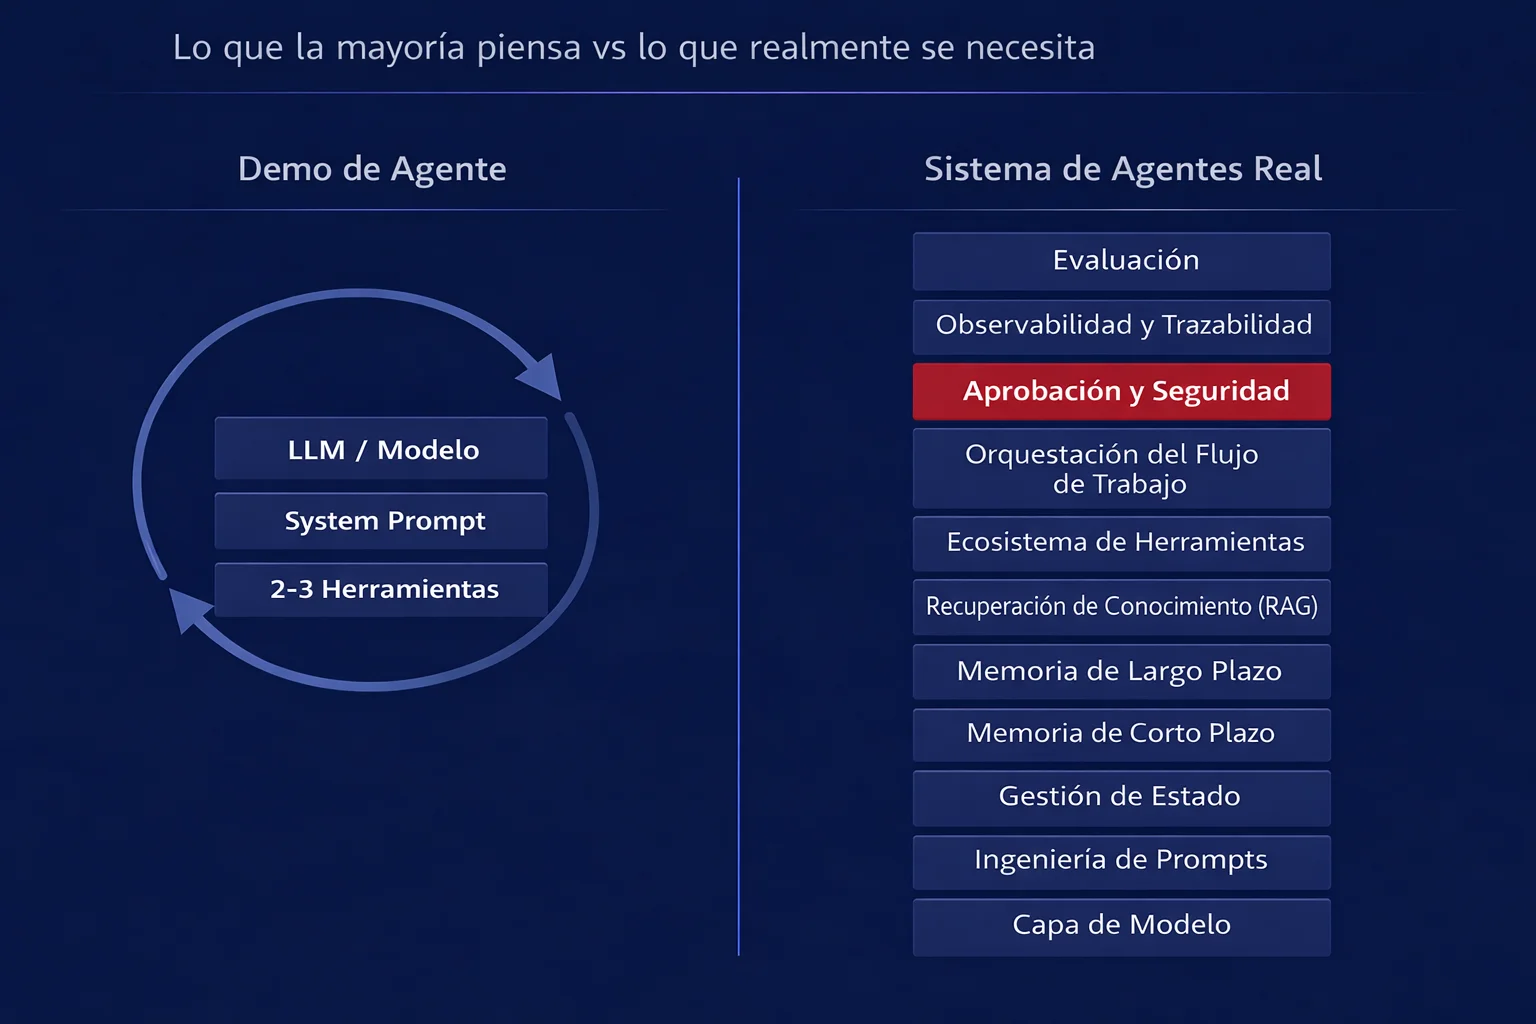
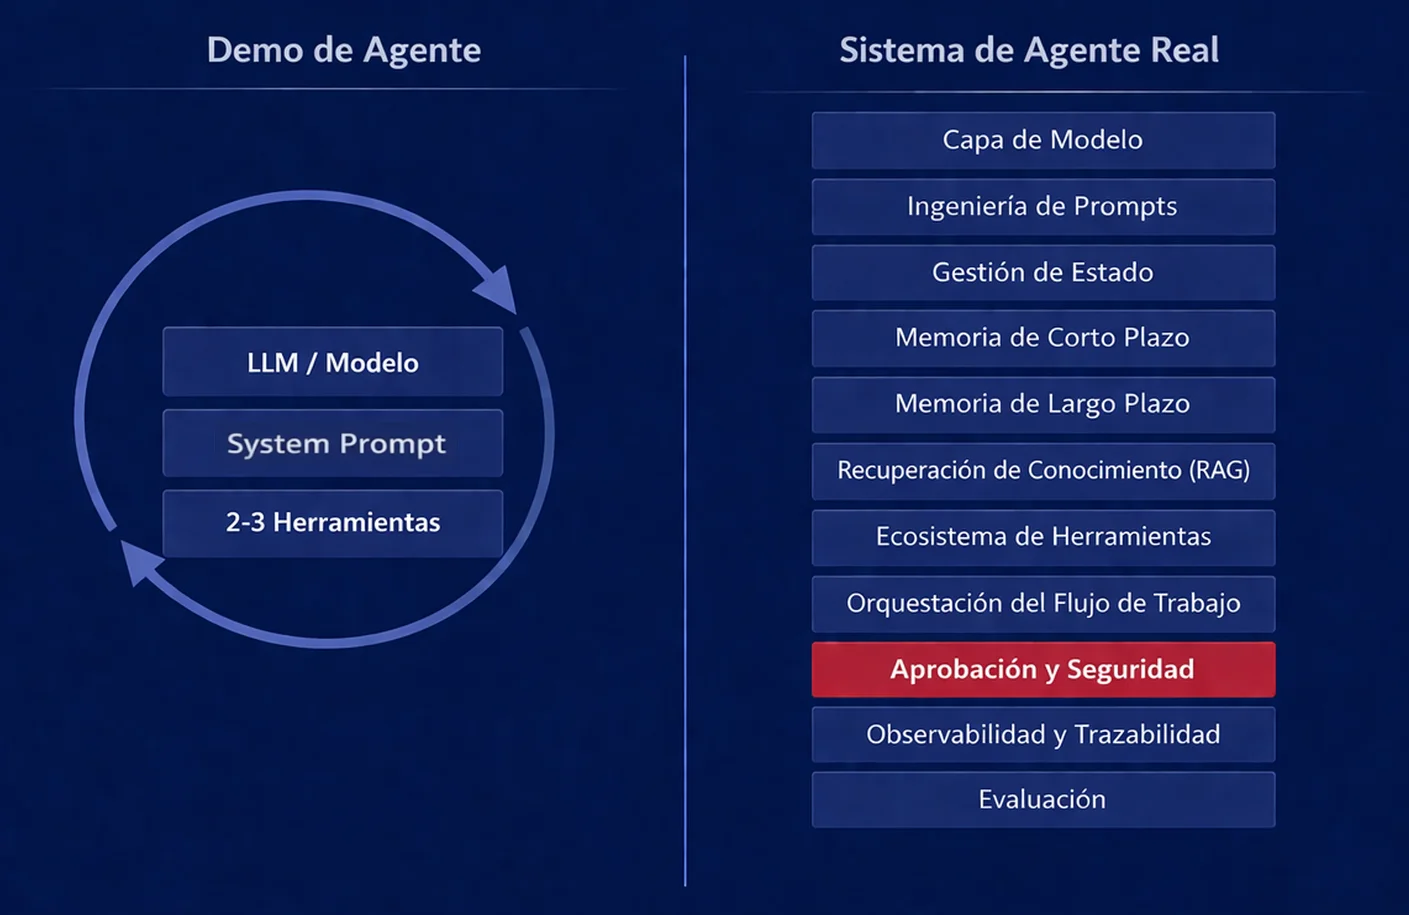
feat(blog): add figcaption CSS, update demo-vs-system images and README
- Add .prose figcaption style to global.css
- Replace demo-vs-system diagram images (EN and ES)
- Add figcaptions to an-agent-is-not-a-prompt post (EN and ES)
- Update README: Astro 6.x badge, add Biome to tech stack, Node.js 22+ requirement, expanded docs links

Changed region(s): [[0.0937, 0.0306, 0.9056, 0.9486], [0.0312, 0.153, 0.406, 0.7344], [0.4684, 0.1836, 0.4996, 0.9486]]

diff --git a/src/styles/global.css b/src/styles/global.css
@@ -39,6 +39,11 @@
   .prose .prose-img-narrow {
     @apply md:max-w-[50%];
   }
+
+  /* Image captions inside blog posts */
+  .prose figcaption {
+    @apply text-sm text-center text-gray-600 dark:text-gray-300 mt-3;
+  }
 }
 
 @layer base {
